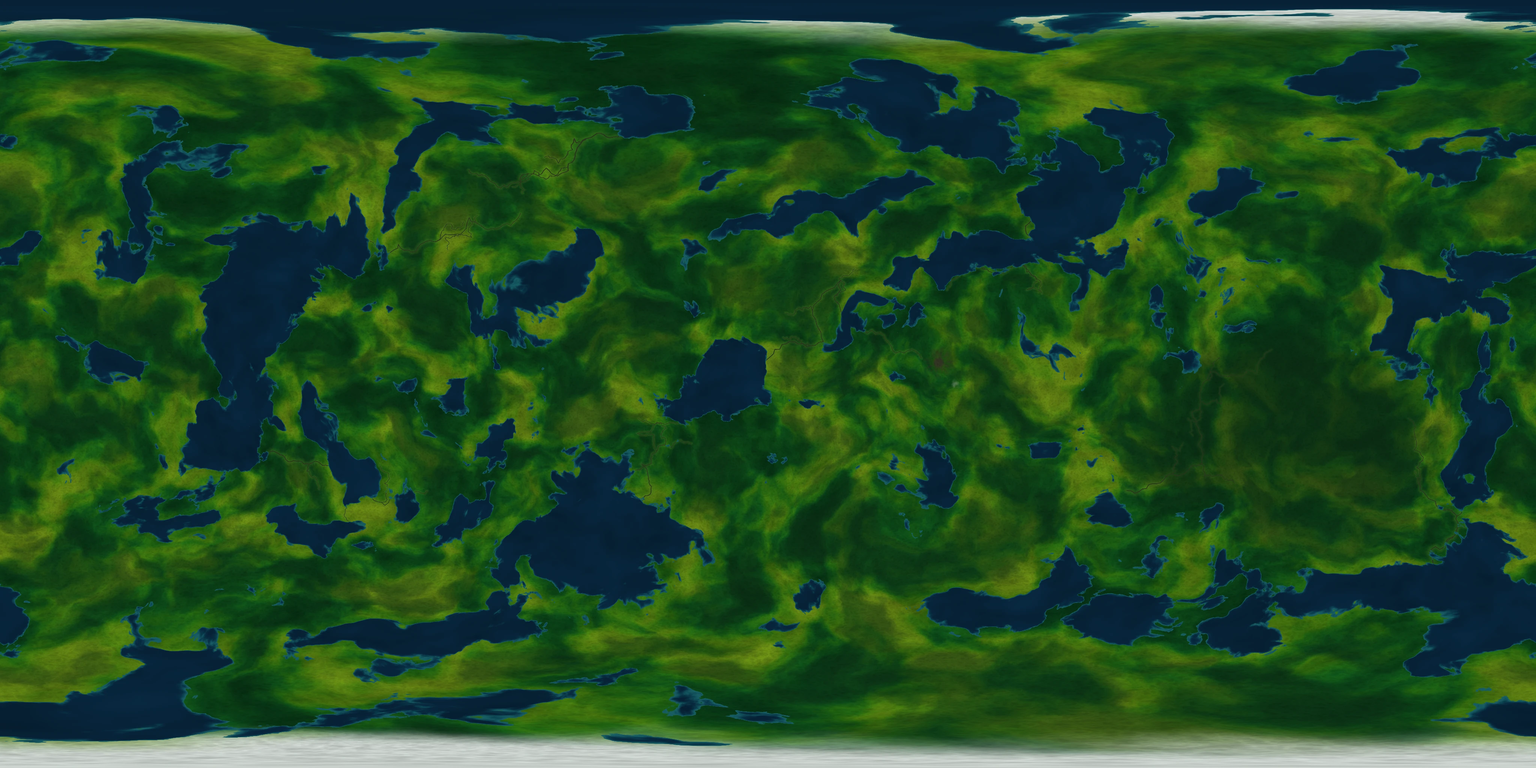
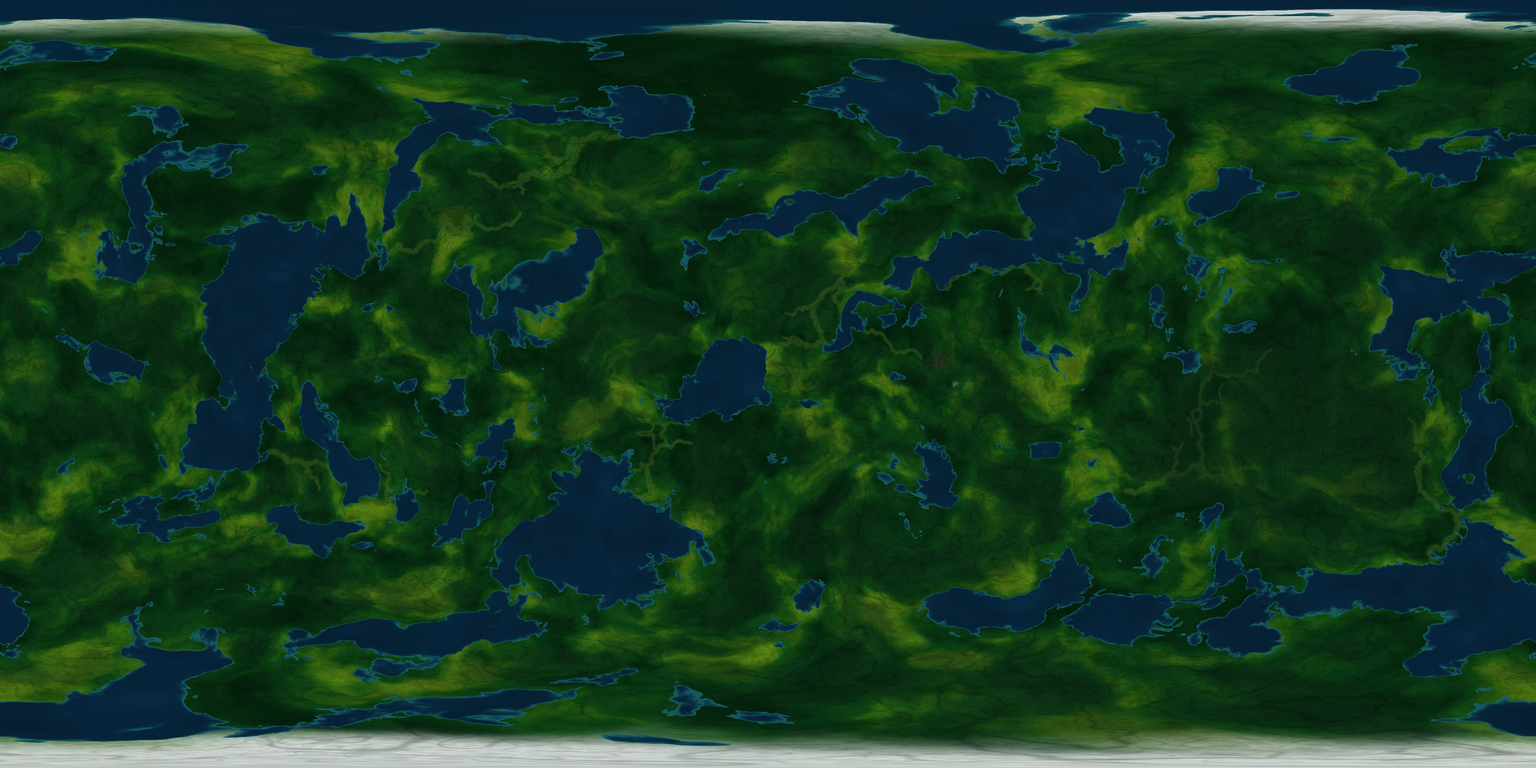
Felucia: darker rainforest with stream valleys; clouds cast shadows
Lowland jungle is deep green, as rainforest is from orbit, with yellow-green on floodplains
and clearings. Stream valleys at three scales etch the canopy and the terrain. Every
cloudy planet now casts cloud shadows on the ground, offset away from the sun.

Claude-Session: https://claude.ai/code/session_01K8R5kqduobr76DoBg9xGr3

diff --git a/web/src/lib/system/emissiveFlicker.ts b/web/src/lib/system/emissiveFlicker.ts
@@ -1,6 +1,7 @@
 // Makes a planet's emissive map feel alive: glowing areas pulse and shimmer slowly, as lava
-// does. Optionally the glow shows only on the night side, for city lights. Patches a
-// MeshStandardMaterial's shader; advance `uniforms.uTime` every frame.
+// does. Optionally the glow shows only on the night side, for city lights. Also casts the
+// cloud layer's shadows onto the ground. Patches a MeshStandardMaterial's shader; advance
+// `uniforms.uTime` every frame.
 
 import * as THREE from 'three';
 
@@ -11,6 +12,13 @@ export type Flicker = {
 		/** 1: show the glow only on the side facing away from uSun. */
 		uNightOnly: { value: number };
 		uSun: { value: THREE.Vector3 };
+		/** The cloud layer's alpha map; its shadow strength (0 for none). */
+		uCloudMap: { value: THREE.Texture | null };
+		uShadow: { value: number };
+		/** The sun's position in the planet mesh's own space (unit sphere). */
+		uSunLocal: { value: THREE.Vector3 };
+		/** How far the cloud layer has turned relative to the ground, radians about +y. */
+		uCloudTurn: { value: number };
 	};
 };
 
@@ -19,7 +27,11 @@ export function addEmissiveFlicker(material: THREE.MeshStandardMaterial, amount:
 		uTime: { value: 0 },
 		uAmount: { value: amount },
 		uNightOnly: { value: 0 },
-		uSun: { value: new THREE.Vector3() }
+		uSun: { value: new THREE.Vector3() },
+		uCloudMap: { value: null as THREE.Texture | null },
+		uShadow: { value: 0 },
+		uSunLocal: { value: new THREE.Vector3(0, 0, 1) },
+		uCloudTurn: { value: 0 }
 	};
 	material.onBeforeCompile = (shader) => {
 		Object.assign(shader.uniforms, uniforms);
@@ -37,6 +49,11 @@ vWorldPos = (modelMatrix * vec4(position, 1.0)).xyz;`
 			);
 		shader.fragmentShader = shader.fragmentShader
 			.replace(
+				'#include <map_fragment>',
+				/* glsl */ `#include <map_fragment>
+if (uShadow > 0.0) diffuseColor.rgb *= 1.0 - uShadow * cloudShadow(normalize(vObjPos));`
+			)
+			.replace(
 				'#include <common>',
 				/* glsl */ `#include <common>
 varying vec3 vObjPos;
@@ -46,6 +63,26 @@ uniform float uTime;
 uniform float uAmount;
 uniform float uNightOnly;
 uniform vec3 uSun;
+uniform sampler2D uCloudMap;
+uniform float uShadow;
+uniform vec3 uSunLocal;
+uniform float uCloudTurn;
+// Cloud cover between this point and the sun. The shadow is cast from a little higher than the
+// cloud mesh really is, so the offset shows; a blurred mip makes its edges soft.
+float cloudShadow(vec3 p) {
+  vec3 l = normalize(uSunLocal - p);
+  float r = 1.05;
+  float b = dot(p, l);
+  vec3 c = p + l * (-b + sqrt(b * b - (1.0 - r * r)));
+  float s = sin(-uCloudTurn), co = cos(-uCloudTurn);
+  c = vec3(co * c.x + s * c.z, c.y, -s * c.x + co * c.z);
+  c = normalize(c);
+  // three.js SphereGeometry's uv: u from atan(z, -x), v from y.
+  float u = atan(c.z, -c.x) / (2.0 * PI);
+  u = u < 0.0 ? u + 1.0 : u;
+  float v = 1.0 - acos(clamp(c.y, -1.0, 1.0)) / PI;
+  return textureLod(uCloudMap, vec2(u, v), 3.0).r;
+}
 float fhash(vec3 p) { p = fract(p * 0.3183099 + 0.1); p *= 17.0; return fract(p.x * p.y * p.z * (p.x + p.y + p.z)); }
 float fnoise(vec3 x) {
   vec3 i = floor(x); vec3 f = fract(x); f = f * f * (3.0 - 2.0 * f);

diff --git a/web/src/lib/system/Planet.svelte b/web/src/lib/system/Planet.svelte
@@ -34,6 +34,8 @@
 			near?: number;
 			/** Shade the cloud tops with clouds-normal.webp. */
 			normal?: boolean;
+			/** How dark the clouds' shadows on the ground are, 0..1 (default 0.55). */
+			shadow?: number;
 		};
 		/** A glow around the rim, lit from `sun`. */
 		atmosphere?: AtmosphereLook;
@@ -98,6 +100,7 @@
 				metalness: 0
 			})
 		: null;
+	if (cloudMaterial) live.uniforms.uCloudMap.value = cloudMaterial.alphaMap;
 	const sunPosition = new THREE.Vector3();
 	// svelte-ignore state_referenced_locally
 	const airMaterial = atmosphere ? atmosphereMaterial(atmosphere, sunPosition) : null;
@@ -107,6 +110,7 @@
 
 	let group = $state<THREE.Group>();
 	let cloudMesh = $state<THREE.Mesh>();
+	let ground = $state<THREE.Mesh>();
 	const { camera, size } = useThrelte();
 
 	// A pin shows only while it's on the side of the planet facing the camera, and its label sits
@@ -132,6 +136,13 @@
 			const t = Math.min(Math.max((d - 2) / 3, 0), 1);
 			const near = clouds?.near ?? 0.4;
 			cloudMaterial.opacity = (clouds?.opacity ?? 0.9) * (near + (1 - near) * t * t * (3 - 2 * t));
+			// Shadows on the ground, from where the sun is now and how far the clouds have drifted.
+			if (ground) {
+				live.uniforms.uSunLocal.value.copy(sunPosition);
+				ground.worldToLocal(live.uniforms.uSunLocal.value);
+				live.uniforms.uCloudTurn.value = cloudMesh.rotation.y;
+				live.uniforms.uShadow.value = (clouds?.shadow ?? 0.55) * cloudMaterial.opacity;
+			}
 		}
 		live.uniforms.uTime.value += delta;
 		if (!pins.length) return;
@@ -173,7 +184,7 @@
 </script>
 
 <T.Group bind:ref={group} {position} rotation.y={(-(face + 90) * Math.PI) / 180}>
-	<T.Mesh scale={radius} {material}>
+	<T.Mesh bind:ref={ground} scale={radius} {material}>
 		<T.SphereGeometry args={[1, 128, 64]} />
 	</T.Mesh>
 	{#if cloudMaterial}

diff --git a/tools/planets/felucia.py b/tools/planets/felucia.py
@@ -40,6 +40,7 @@ from planetgen import (
     save_rgb,
     smoothstep,
     unit,
+    veins,
     write_pins,
 )
 
@@ -206,6 +207,18 @@ def generate(width: int, out: Path) -> None:
     water = np.maximum(smoothstep(sea_level + 0.004, sea_level - 0.004, h), river)
     below = np.clip(sea_level - h, 0, None)
     e = np.clip((h - sea_level) / (np.quantile(h, 0.995) - sea_level), 0, 1)
+    # Dissected land: stream valleys at three scales (the zero-crossings of noise make
+    # connected, winding lines), deeper in the hills. From orbit, drainage etched into the
+    # canopy is most of what gives a forest its texture.
+    w2 = np.stack([fbm(n[3], p * 8 + 5, 3), fbm(n[6], p * 8 + 9, 3), fbm(n[2], p * 8 + 3, 3)], -1)
+    valleys = np.maximum.reduce(
+        [
+            veins(n[4], p * 9 + warp * 2 + w2 * 0.6, 0.08),
+            0.7 * veins(n[5], p * 22 + warp * 3 + w2 * 0.8, 0.09),
+            0.45 * veins(n[7], p * 55 + warp * 4 + w2, 0.1),
+        ]
+    ) * (0.45 + 0.55 * smoothstep(0.0, 0.5, e))
+    print(f"relief {time.time() - t0:.1f}s")
 
     # Seas: clear tropical water, turquoise on the shelves, deep blue-green in the basins.
     deep = np.array([0.03, 0.15, 0.24], np.float32)
@@ -220,25 +233,26 @@ def generate(width: int, out: Path) -> None:
     silt = np.array([0.16, 0.2, 0.12], np.float32)
     water_rgb = np.where((river > 0.01)[..., None] & (below[..., None] <= 0), silt, water_rgb)
 
-    # Canopy: many greens, from deep emerald in the old forest to lime and yellow-green in the
-    # lowlands, varied in patches by a biome field built from the same warp.
+    # Canopy: mostly deep rainforest green, as jungle is from orbit, varied in patches by a
+    # biome field built from the same warp; the lighter yellow-greens only in its top tenth
+    # (younger growth and clearings) and along the rivers.
     biome = rank(fbm(n[6], p * 4.5 + warp * 1.6, 6))
     patch = fbm(n[7], p * 14 + warp * 2.5, 5)
     green = ramp(
         biome,
         [
-            (0.0, (0.03, 0.22, 0.09)),
-            (0.3, (0.06, 0.33, 0.1)),
-            (0.55, (0.14, 0.42, 0.07)),
-            (0.8, (0.28, 0.5, 0.06)),
-            (1.0, (0.42, 0.55, 0.08)),
+            (0.0, (0.02, 0.15, 0.06)),
+            (0.4, (0.04, 0.23, 0.08)),
+            (0.72, (0.07, 0.3, 0.08)),
+            (0.88, (0.18, 0.4, 0.07)),
+            (1.0, (0.34, 0.5, 0.08)),
         ],
     )
     green = green * (0.85 + 0.3 * patch[..., None])
     # Higher ground is darker old growth; the floodplains are bright and fresh.
     old = smoothstep(0.35, 0.8, e)[..., None]
     green = green * (1 - 0.5 * old) + np.array([0.05, 0.17, 0.08], np.float32) * 0.5 * old
-    green = green * (1 - 0.35 * flood[..., None]) + np.array([0.3, 0.46, 0.12], np.float32) * 0.35 * flood[..., None]
+    green = green * (1 - 0.5 * flood[..., None]) + np.array([0.26, 0.45, 0.1], np.float32) * 0.5 * flood[..., None]
     # The wildlands: the densest, darkest canopy.
     wild = smoothstep(1.15, 0.75, ellipse(g, WILDLANDS["lat"], WILDLANDS["lon"], WILDLANDS["ax"], WILDLANDS["ay"]) + 0.25 * fbm(n[1], p * 5 + warp, 4))
     green = green * (1 - 0.55 * wild[..., None]) + np.array([0.04, 0.15, 0.07], np.float32) * 0.55 * wild[..., None]
@@ -256,7 +270,8 @@ def generate(width: int, out: Path) -> None:
     green = green * (1 - polar) + np.array([0.75, 0.78, 0.76], np.float32) * polar
     # The canopy seen from above: tree crowns bunched into clumps, with shaded gaps.
     grain = fbm(n[2], p * 400, 2)
-    land = green * (0.8 + 0.3 * crowns[..., None] + 0.08 * grain[..., None])
+    # Valleys sit in shade under taller, denser trees; ridges catch light.
+    land = green * (0.8 + 0.3 * crowns[..., None] + 0.08 * grain[..., None]) * (1 - 0.22 * valleys[..., None])
     rgb = land * (1 - water[..., None]) + water_rgb * water[..., None]
     print(f"colour {time.time() - t0:.1f}s")
 
@@ -279,13 +294,13 @@ def generate(width: int, out: Path) -> None:
     print(f"lights {time.time() - t0:.1f}s")
 
     rough = np.where(water > 0.5, 0.45, 0.88)
-    height = e * (1 - water)
+    height = (e - 0.06 * valleys) * (1 - water)
     out.mkdir(parents=True, exist_ok=True)
     save_rgb(out / "albedo.webp", rgb)
     save_rgb(out / "emissive.webp", emissive)
     save_gray(out / "roughness.webp", rough)
     save_gray(out / "height.webp", height)
-    save_rgb(out / "normal.webp", normal_map(height * 0.02, strength=1.0))
+    save_rgb(out / "normal.webp", normal_map(height * 0.025, strength=1.0))
     save_clouds(out, *felucia_clouds(g))
     write_pins(out / "pins.json", "Felucia", PINS)
     print(f"done {time.time() - t0:.1f}s -> {out}, water {float((water > 0.5).mean()):.3f}")

diff --git a/.ideas/projects/solar-system-3d/README.md b/.ideas/projects/solar-system-3d/README.md
@@ -213,6 +213,12 @@ Next: the other planets and moons (see `assets.md`), then the fly-through UI.
   like bare clearings; broad crimson or violet stands looked like rust; autumn-coloured stands
   looked like burn scars. A world's "colourful" has to come from its main palette (here a wide
   range of greens), not from spots of other colours. Broad yellow-green variation was fine.
+- **Jungle from orbit is dark** (Felucia). Real rainforest is a deep, even green; bright
+  yellow-green reads as grassland. Its texture comes from drainage: stream valleys etched into
+  the canopy at several scales (`veins` at three frequencies), not airbrushed colour swirls.
+- **Clouds cast shadows** (`emissiveFlicker.ts`): the ground shader traces toward the sun to the
+  cloud layer, cast from a little higher than the cloud mesh so the offset shows. Shadows lying
+  right under their clouds are hidden; the offset is what makes clouds look lifted.
 - **Clouds thin as the camera closes in** (to `near` × opacity at 2 radii), so places can be
   seen up close while the planet reads as cloudy from afar.
 
